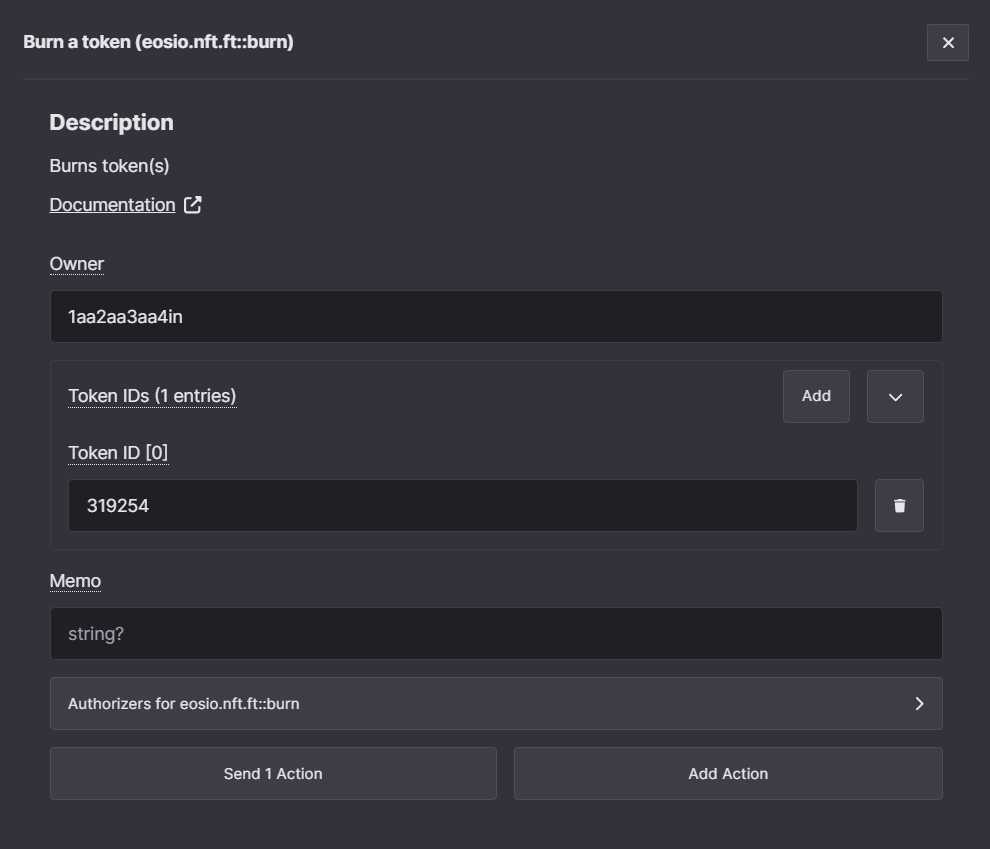
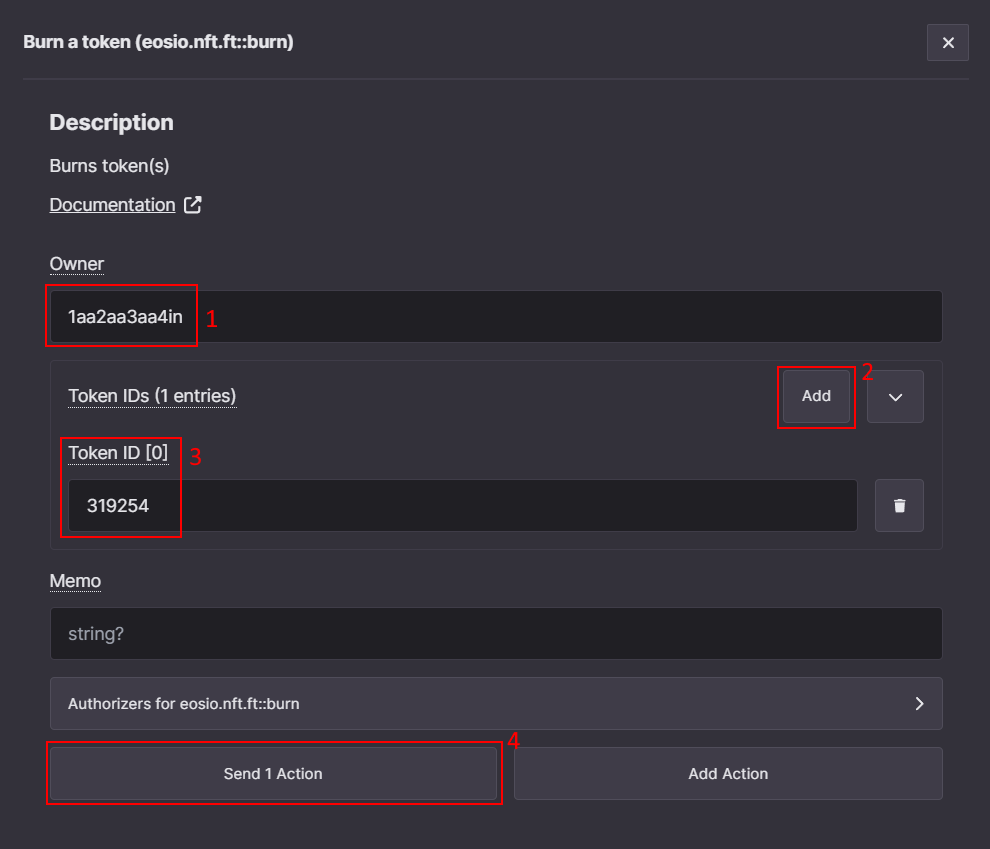
BLOCK-2216 - Added bounding boxes and finished the advanced actions tutorial

diff --git a/docs/tutorials/uniq-factories/creating-uniq-factories/how-to-perform-advanced-actions-with-uniqs-and-factories.md b/docs/tutorials/uniq-factories/creating-uniq-factories/how-to-perform-advanced-actions-with-uniqs-and-factories.md
@@ -90,7 +90,7 @@ You should be able to scroll down and see the list of Uniqs the account has. Not
 
 We will now cover the usage of `Purchase option with Uniqs` when creating a purchase option. This option allows you to require a payment to be done using Uniqs from other factories or to simply require a user to own a Uniq from a specific factory.
 
-First, navigate to [Factory management actions](https://toolkit.ultra.io/factoryManagement), search again for `setprchsreq`, and select the `Set first-hand purchase requirement` action.
+First, navigate to [Factory management actions](https://toolkit.ultra.io/factoryManagement), search again for `setprchsreq`, and select the `Set first-hand purchase requirement (eosio.nft.ft::setprchsreq.b)` action.
 
 To specify the price in Uniqs you use the `Purchase option with Uniqs` field. You can add multiple entries to this field, each field corresponds to a single factory. Here is a breakdown for each of the fields:
 
@@ -121,7 +121,7 @@ You can now navigate to [Factory explorer](https://toolkit.ultra.io/uniqFactory)
 
 The process of purchasing Uniq using the purchase option with Uniqs requirement is similar, but requires you to fill the `Provided Uniqs field`.
 
-To do so, first navigate to [Factory management actions](https://toolkit.ultra.io/factoryManagement), and search again for `purchase` again and select `Purchase Uniqs directly (eosio.nft.ft::purchase.a)`.
+To do so, first navigate to [Factory management actions](https://toolkit.ultra.io/factoryManagement), and search again for `purchase` and select `Purchase Uniqs directly (eosio.nft.ft::purchase.a)`.
 
 If the purchase option requires Uniqs from other factories then the account must have those Uniqs in its inventory. If you need to mint this Uniq then either refer to a [MINT UNIQS GUIDE](./how.md) or add add a simple first-hand purchase option with UOS price to this factory and purchase it, as was described in this guide.
 
@@ -145,25 +145,71 @@ After clicking on `Send 1 Action`, reviewing the details, and confirming the tra
 
 ## How to transfer a Uniq to another account
 
+For testing it may be necessary to transfer Uniqs manually and in greater quantities. You can use the toolkit to quickly assemble a transfer transaction and run it. For more details see the [action documentation](../../../blockchain/contracts/nft-contract/nft-actions/transfer.md).
+
+First, navigate to [Uniq management actions](https://toolkit.ultra.io/uniqManagement), search `transfer`, and select the `Transfer token (eosio.nft.ft::transfer)` action.
+
 ![](./images/transfer-Uniq-search-transfer.png)
+
+You need to fill the following fields:
+
+- **From** - The account that currently owns the Uniq, you have logged in with, and want to transfer the Uniq from.
+- **To** - The receiver of the Uniq.
+- **Token IDs** - A list of Uniqs that will be transferred, you can add multiple and send them all at once. To know the Uniq ID you can use the user [inventory page](https://toolkit.ultra.io/user).
+- **Memo** - Simple text message that can be used for various purposes. Does not affect the result of the transaction. Optional, can leave it empty.
 
 ![](./images/transfer-Uniq-form.png)
 
+After clicking on `Send 1 Action`, reviewing the details, and confirming the transaction, you should be able to see the Uniq on the receiver account [inventory](https://toolkit.ultra.io/user).
+
 ## How to burn a Uniq manually
+
+Burn action allows you to delete a token and get a UOS refund based on the portion of UOS that was spent to mint it. This effectively lets you get rid of Uniqs that are no longer needed. For more details see the [action documentation](../../../blockchain/contracts/nft-contract/nft-actions/burn.md).
+
+First, navigate to [Uniq management actions](https://toolkit.ultra.io/uniqManagement), search `burn`, and select the `Burn a token (eosio.nft.ft::burn)` action.
 
 ![](./images/burn-Uniq-search-burn.png)
 
+You need to fill the following fields:
+
+- **Owner** - The account that owns a Uniq and that you have logged in with.
+- **Token IDs** - A list of Uniqs that will be burned. You can burn multiple Uniqs at a time.
+- **Memo** - Simple text message that can be used for various purposes. Does not affect the result of the transaction. Optional, can leave it empty.
+
 ![](./images/burn-Uniq-form.png)
+
+After clicking on `Send 1 Action`, reviewing the details, and confirming the transaction, you should no longer see the Uniq on the owner account [inventory](https://toolkit.ultra.io/user).
 
 ## How to add authorized minters to a factory
 
+Sometimes it may be desired to allow accounts other than the factory manager to mint Uniqs from the factory. For this purpose the authorized minter feature is used. For more details see the [action documentation](../../../blockchain/contracts/nft-contract/nft-actions/authmint.b.md).
+
+To do so, first navigate to [Factory management actions](https://toolkit.ultra.io/factoryManagement), and search again for `authmint` and select `Authorize minter (eosio.nft.ft::authmint.b)`.
+
 ![](./images/authorized-minter-search-authmint.png)
+
+You need to fill the following fields:
+
+- **Authorizer** - The account that manages the factory or was previously authorized using authorized minter action.
+- **Authorized minter** - The account that will be authorized to mint Uniqs from the factory or to delegate the minting authorization to other accounts.
+- **Token factory ID** - The ID of the factory that the authorized minter will be allowed to mint from.
+- **Quantity** - The maximum number of Uniqs that authorized minter will be allowed to mint. Mandatory to specify even if the factory has no limit on the number of Uniqs that can be minted.
+- **Maximum UOS payment** - The maximum amount of UOS you are ok to pay to assign the authorized minter. The payment is only used to cover RAM costs and is predictable. Optional, can leave it empty.
+- **Memo** - Simple text message that can be used for various purposes. Does not affect the result of the transaction. Optional, can leave it empty.
 
 ![](./images/authorized-minter-form.png)
 
+After clicking on `Send 1 Action`, reviewing the details, and confirming the transaction, the `Authorized minter` account will be allowed to mint the specific number of Uniqs from the factory.
+
+To actually mint the Uniqs as authorized minter you need to utilize the `Authorizer` field of `issue` action. Navigate to [Factory management actions](https://toolkit.ultra.io/factoryManagement), and search for `issue` and select `Issue tokens (eosio.nft.ft::issue.b)`.
+
 ![](./images/authorized-minter-search-issue.png)
 
+Similar to [MINT UNIQS GUIDE](./how.md) you need to fill `To`, `Token factory ID` and `Amount`. But now you also need to additionally specify the `Authorizer`. The `Authorizer` must be an authorized minter assigned using the authorized minter action.
+
 ![](./images/authorized-minter-issue-form.png)
+
+After clicking on `Send 1 Action`, reviewing the details, and confirming the transaction, you should be able to see the Uniq in the receiver account [inventory](https://toolkit.ultra.io/user).
 
 ![](./images/authorized-minter-result.png)
 
